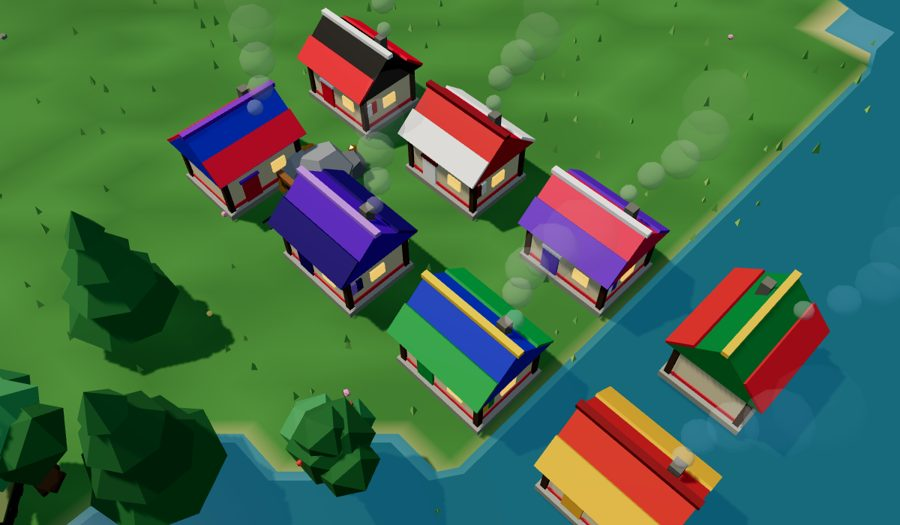
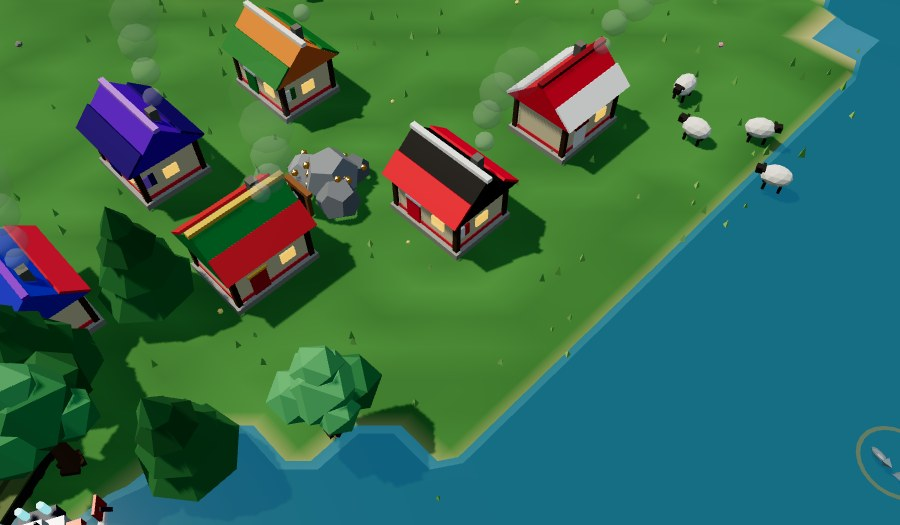
Fotos de la Edad Futurista, casas sin encimarse

diff --git a/README.md b/README.md
@@ -89,7 +89,7 @@ Como en AoE, **cada era cambia el aspecto de los edificios** y desbloquea unidad
 
 Como en AoE, cada era cambia el aspecto de los edificios. Los techos y los muros cambian de material y aparece un elemento icónico de la época. Desde la era III, el color del equipo pasa de los techos a un borde alrededor del edificio y a un estandarte. Al subir de era, el juego anuncia lo que se desbloqueó.
 
-<img src="docs/img/eras.jpg" width="720" alt="El mismo establo en las seis eras">
+<img src="docs/img/eras.jpg" width="820" alt="El mismo establo en las siete eras y la Red Primaria holográfica">
 
 | Era | Muros | Techos | Elemento icónico |
 |---|---|---|---|
@@ -107,13 +107,15 @@ La era más futurista posible: la **Red Primaria se vuelve un holograma** (la si
 
 <p align="center"><img src="docs/img/era7-base.jpg" width="49%"> <img src="docs/img/era7-batalla.jpg" width="49%"><br><sub>Una base en la Edad Futurista y una batalla de robots, tanques de plasma y helicópteros.</sub></p>
 
+<p align="center"><img src="docs/img/era7-edificios.jpg" width="100%"><br><sub>Los edificios en la Edad Futurista: cerámica blanca, grafito, pisos de pizarra, neón del color del equipo y un anillo holográfico encima.</sub></p>
+
 Al avanzar de era se levanta sobre la Red Primaria una **columna de luz roja con el triángulo de Avalanche**, con una onda expansiva y un estallido de partículas.
 
 ### Personajes por era
 
 Las personas también cambian de equipo con cada era, y el triángulo de Avalanche aparece en escudos, tabardos y brazaletes.
 
-<p align="center"><img src="docs/img/personajes.jpg" width="80%"><br><sub>Aldeano y Centinela en las seis primeras eras. En la Futurista todos llevan casco blanco con visor de luz cian y peto blanco.</sub></p>
+<p align="center"><img src="docs/img/personajes.jpg" width="80%"><br><sub>Aldeano y Centinela en las siete eras (en la Futurista, casco blanco con visor de luz cian y peto blanco) y el robot de combate.</sub></p>
 
 | Era | Aldeano | Centinela (milicia) | Otros |
 |---|---|---|---|
@@ -161,7 +163,7 @@ Las partículas se dibujan en tres mallas instanciadas (un draw call cada una) y
 | | Edificio | Era | Costo | Qué hace |
 |---|---|---|---|---|
 | <img src="docs/img/town-e1.jpg" width="210"> | **Red Primaria**<br><sub>Centro urbano</sub> | I | 275 🪵 · 100 🪨 | Corazón de la civilización. Entrena aldeanos, recibe todos los recursos y avanza de era. |
-| <img src="docs/img/house-e1.jpg" width="210"> | **Refugio Alpino**<br><sub>Casa</sub> | I | 30 🪵 | Aumenta la población máxima en 5. |
+| <img src="docs/img/house-e1.jpg" width="210"> | **Refugio Alpino**<br><sub>Casa</sub> | I | 30 🪵 | Aumenta la población máxima en 5. Necesita una casilla libre alrededor: no se pega al agua ni a otros edificios. |
 | <img src="docs/img/mill-e1.jpg" width="210"> | **Granero del Nodo**<br><sub>Molino</sub> | I | 100 🪵 | Punto de entrega de comida. Investiga mejoras agrícolas. |
 | <img src="docs/img/lumbercamp-e1.jpg" width="210"> | **Aserradero Firewood**<br><sub>Aserradero</sub> | I | 100 🪵 | Punto de entrega de madera. Investiga mejoras de tala. Se reconoce por su techo de tablones y la pila de troncos. |
 | <img src="docs/img/miningcamp-e1.jpg" width="210"> | **Mina de AVAX**<br><sub>Campamento minero</sub> | I | 100 🪵 | Punto de entrega de oro y piedra. Investiga mejoras de minería. Se reconoce por el montículo de roca con túnel y la torre con polea. |
@@ -284,7 +286,7 @@ Las partículas se dibujan en tres mallas instanciadas (un draw call cada una) y
   - con una fanfarria al cambiar de era;
   - cuando se derrumba un edificio.
 - **Selección:** clic en cualquier parte del cuerpo de una unidad (no solo la cabeza). Un clic con temblor del trackpad sigue contando como clic, y el recuadro selecciona una unidad con solo tocarle el cuerpo.
-- **Mercado en la partida:** selecciona tu Mercado DeFi y pulsa **Activar Mercado** (el botón grande del panel o la tecla T). Se abre tu sesión on-chain, con el gas gratis, y desde ahí compras (+100) y vendes (−100) cada recurso por GLORY.
+- **Mercado en la partida:** selecciona tu Mercado DeFi y pulsa **Activar Mercado** (el botón grande del panel o la tecla T). Se abre tu sesión on-chain, con el gas gratis, y desde ahí compras (+100) y vendes (−100) cada recurso por GLORY. Lo que compras llega al instante; lo que vendes queda registrado en la cadena y su GLORY aparece en verde junto a tu saldo (**+N**) hasta que termina la partida: al liquidarla, el verificador confirma con la re-simulación que esos recursos existían y el GLORY llega a tu wallet.
 - **Rendimiento:** botón **Ahorro** para laptops (30 fps, menos resolución).
 
 <p align="center"><img src="docs/img/fauna.jpg" width="70%"><br><sub>Fauna: oveja, vaca, ciervo, jabalí y lobo.</sub></p>

diff --git a/docs/JUEGO.md b/docs/JUEGO.md
@@ -107,6 +107,10 @@ Las capturas del README salen del modo `?photo=<edificio|unidad>&era=N`.
   - **En el suelo:** las unidades van ahí.
 - **Actividad antes de nacer:** como en AoE, hay un solo botón de aldeano. Pon el punto de reunión sobre un árbol, una mina, una cantera, bayas o una granja, y cada aldeano nuevo nace con esa actividad. Se reparten entre los recursos iguales de alrededor (no todos en el mismo árbol). Si el recurso marcado se agota, toman otro igual cerca. El panel del edificio indica la actividad ("Aldeanos nuevos: madera").
 
+## Casas
+
+El Refugio Alpino ocupa una casilla, pero su modelo mide casi casilla y media. Por eso necesita **una casilla libre alrededor**: sin agua, montaña ni otros edificios (los árboles sí). Antes se podían pegar y se encimaban unas con otras o colgaban sobre el río.
+
 ## Granjas
 
 - **Tamaño:** el modelo llena exactamente su terreno de 3×3 casillas (120 px), igual que la vista previa de construcción.
